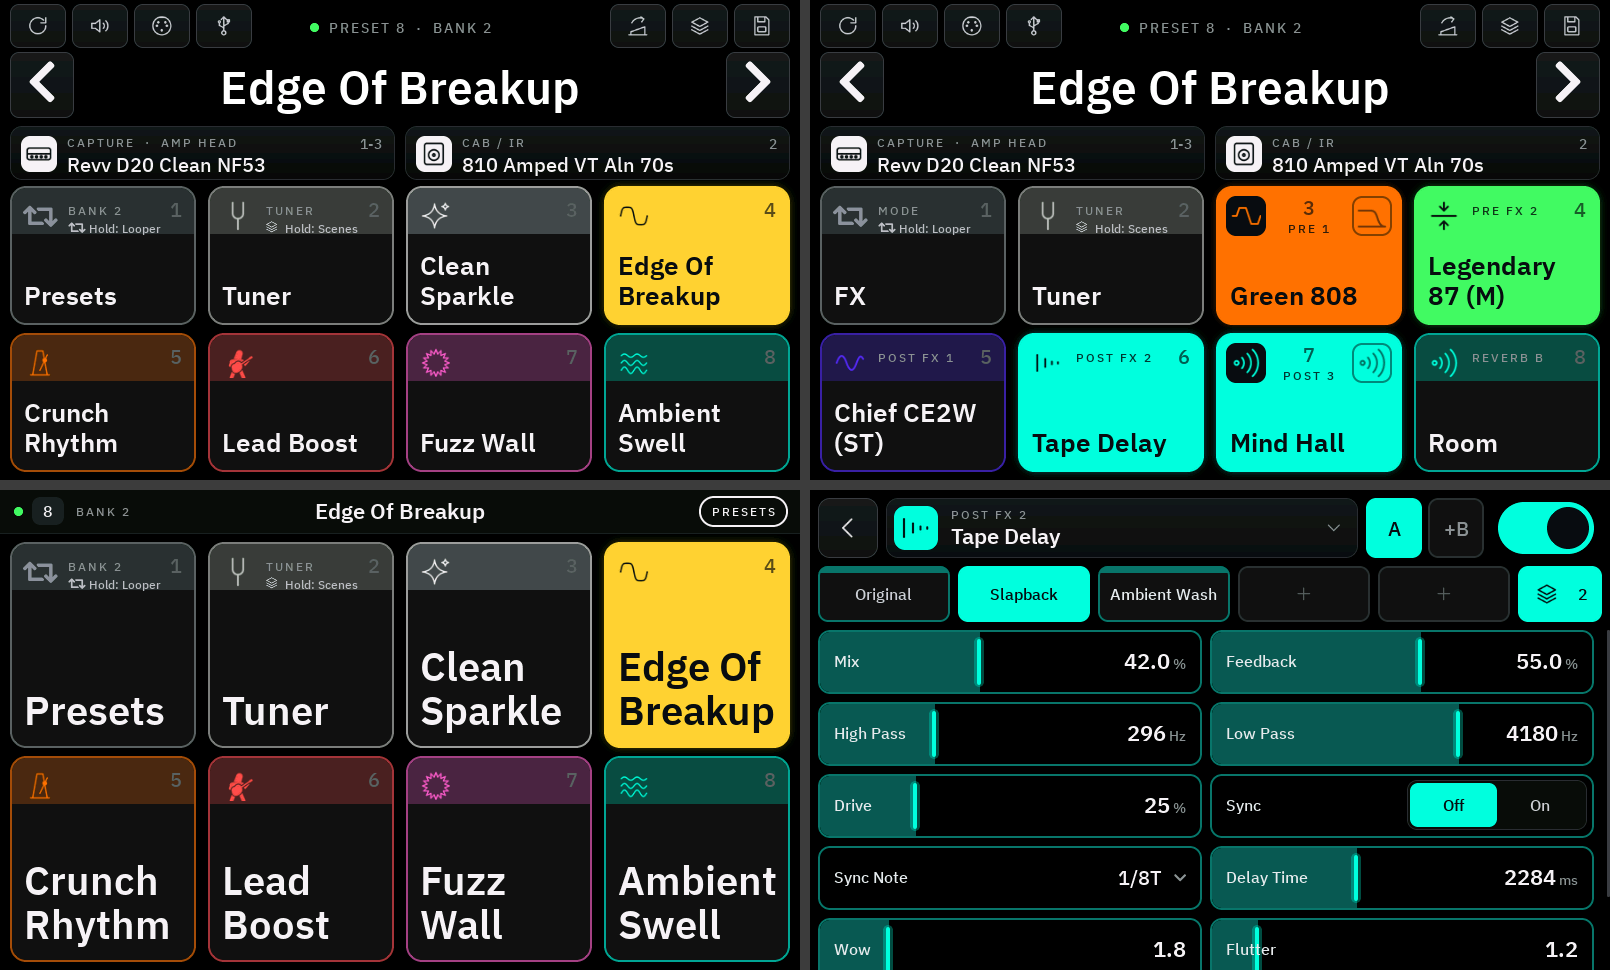
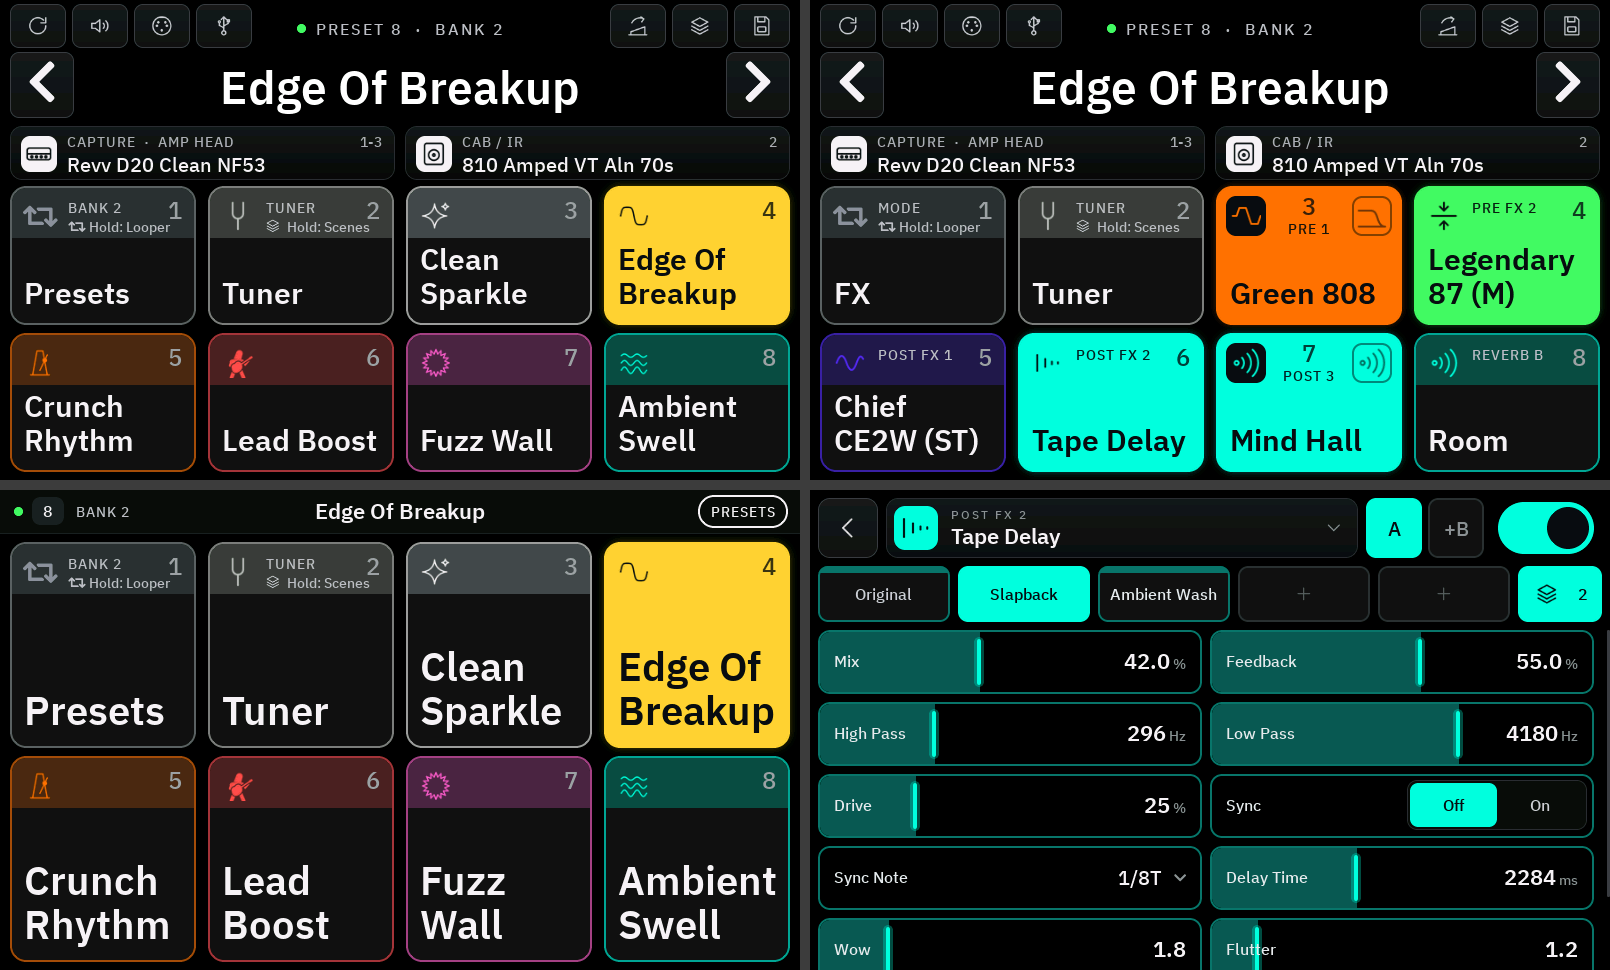
Readable small text, larger tile names, clearer reverb A / B
- Tile captions, notes and the status line 14-16 px in light grey instead of
  12 px muted; footswitch numbers 24 px; tile names up to 30 px in the normal
  view and 46 px in the gig view.
- Reverb dialog: the second tab is 'Reverb A / B' with 'Same reverb, second
  setting' - two complete settings of one reverb on the switch.

diff --git a/main/ui.c b/main/ui.c
@@ -535,7 +535,7 @@ static void place_tile(int i)
     lv_obj_set_size(s_tile[i], s_tile_w, h);
     lv_obj_set_pos(s_tile[i], 10 + (p % columns) * (s_tile_w + TILE_GAP), (s_fullscreen ? FULL_TILE_Y : TILE_Y) + (p / columns) * (h + 8));
     if (!s_tile_name[i]) return;   // (still being built)
-    lv_obj_set_width(s_tile_other[i], s_tile_w - 66);
+    lv_obj_set_width(s_tile_other[i], s_tile_w - 62);
     lv_obj_set_width(s_tile_name[i], s_tile_w - 24);
     lv_label_set_text_fmt(s_tile_number[i], "%d", p + 1);   // the footswitch that presses it
 }
@@ -561,8 +561,9 @@ static bool words_fit(const char *text, const lv_font_t *font, int width)
 // so the tiles read evenly - larger in the gig view.
 static void fit_names(void)
 {
-    static const lv_font_t *const gig[] = { &ui_font_title_40, &ui_font_title_34, &ui_font_title_30, &ui_font_title_26 };
-    static const lv_font_t *const normal[] = { &ui_font_title_26, &ui_font_24, &ui_font_20, &ui_font_16 };
+    static const lv_font_t *const gig[] = { &ui_font_title_46, &ui_font_title_40, &ui_font_title_34, &ui_font_title_30, &ui_font_title_26 };
+    static const lv_font_t *const normal[] = { &ui_font_title_30, &ui_font_title_26, &ui_font_24, &ui_font_20, &ui_font_16 };
+    enum { SIZES = 5 };
     // Measuring takes a while and the names rarely change: only when a name or the view (gig / normal) changed.
     static char measured[TILES][65];
     static int measured_view = -1, measured_w;
@@ -573,9 +574,9 @@ static void fit_names(void)
     measured_w = s_tile_w;
     for (int i = 0; i < TILES; i++) strlcpy(measured[i], lv_label_get_text(s_tile_name[i]), sizeof(measured[i]));
     const lv_font_t *const *fonts = s_fullscreen ? gig : normal;
-    int room = tile_height() - (s_fullscreen ? 66 : 56);
-    const lv_font_t *font = fonts[3];
-    for (int f = 0; f < 4; f++) {
+    int room = tile_height() - (s_fullscreen ? 66 : 58);
+    const lv_font_t *font = fonts[SIZES - 1];
+    for (int f = 0; f < SIZES; f++) {
         int line_space = -lv_font_get_line_height(fonts[f]) / 6;
         bool fits = true;
         for (int i = 0; i < TILES && fits; i++) {
@@ -643,7 +644,7 @@ static void on_tile_draw(lv_event_t *e)
     lv_area_t a;
     lv_obj_get_coords(lv_event_get_current_target_obj(e), &a);
     lv_area_t in = { a.x1 + 2, a.y1 + 2, a.x2 - 2, a.y2 - 2 };   // inside the border
-    if (s_tile_head[i]) draw_top(lv_event_get_layer(e), &in, 14, 46, blend(s_tile_head[i], TILE_OFF_BG, 0.24f));
+    if (s_tile_head[i]) draw_top(lv_event_get_layer(e), &in, 14, 50, blend(s_tile_head[i], TILE_OFF_BG, 0.24f));
     if (s_tile_marks[i]) draw_scene_marks(lv_event_get_layer(e), &a, i);
 }
 
@@ -679,28 +680,29 @@ static void build_tile(lv_obj_t *parent, int i)
     lv_obj_set_style_bg_opa(s_tile_square_b[i], LV_OPA_TRANSP, 0);
     lv_obj_set_hidden(s_tile_square_b[i], true);
 
-    s_tile_caption[i] = label(tile, &ui_font_12, TEXT);
-    lv_obj_set_style_text_letter_space(s_tile_caption[i], 2, 0);
+    // (14 px and light grey: the 12 px captions and notes could not be read from standing height)
+    s_tile_caption[i] = label(tile, &ui_font_14, TEXT);
+    lv_obj_set_style_text_letter_space(s_tile_caption[i], 1, 0);
     lv_obj_set_width(s_tile_caption[i], s_tile_w - 96);
     lv_label_set_long_mode(s_tile_caption[i], LV_LABEL_LONG_CLIP);
-    lv_obj_set_pos(s_tile_caption[i], 56, 14);
+    lv_obj_set_pos(s_tile_caption[i], 56, 10);
 
-    s_tile_other[i] = label(tile, &ui_font_12, TEXT);
-    lv_obj_set_size(s_tile_other[i], s_tile_w - 66, lv_font_get_line_height(&ui_font_12));   // one line
+    s_tile_other[i] = label(tile, &ui_font_14, TEXT);
+    lv_obj_set_size(s_tile_other[i], s_tile_w - 66, lv_font_get_line_height(&ui_font_14));   // one line
     lv_label_set_long_mode(s_tile_other[i], LV_LABEL_LONG_DOT);
-    lv_obj_set_pos(s_tile_other[i], 56, 32);
+    lv_obj_set_pos(s_tile_other[i], 56, 29);
     lv_obj_set_hidden(s_tile_other[i], true);
     s_tile_note_image[i] = lv_image_create(tile);   // a small symbol in front of that line
-    lv_image_set_scale(s_tile_note_image[i], 256 * 15 / 36);
-    lv_obj_set_size(s_tile_note_image[i], 15, 15);
+    lv_image_set_scale(s_tile_note_image[i], 256 * 17 / 36);
+    lv_obj_set_size(s_tile_note_image[i], 17, 17);
     lv_image_set_inner_align(s_tile_note_image[i], LV_IMAGE_ALIGN_CENTER);
     lv_obj_set_style_image_recolor_opa(s_tile_note_image[i], LV_OPA_COVER, 0);
-    lv_obj_set_pos(s_tile_note_image[i], 55, 32);
+    lv_obj_set_pos(s_tile_note_image[i], 55, 30);
     lv_obj_set_hidden(s_tile_note_image[i], true);
 
-    s_tile_number[i] = label(tile, &ui_font_20, TEXT);
+    s_tile_number[i] = label(tile, &ui_font_24, TEXT);
     lv_label_set_text_fmt(s_tile_number[i], "%d", i + 1);
-    lv_obj_align(s_tile_number[i], LV_ALIGN_TOP_RIGHT, -12, 8);
+    lv_obj_align(s_tile_number[i], LV_ALIGN_TOP_RIGHT, -12, 6);
 
     s_tile_name[i] = label(tile, &ui_font_title_26, TEXT);
     lv_obj_set_width(s_tile_name[i], s_tile_w - 24);
@@ -775,11 +777,11 @@ static void set_tile(int i, const char *caption, const char *name, uint32_t colo
     set_text(sym, symbol ? symbol : "");
     set_color_prop(sym, LV_STYLE_TEXT_COLOR, mark);
     set_num_prop(s_tile_caption[i], LV_STYLE_X, (icon || symbol) ? 56 : 14);
-    set_num_prop(s_tile_caption[i], LV_STYLE_Y, 14);
-    set_num_prop(s_tile_caption[i], LV_STYLE_WIDTH, (icon || symbol) ? s_tile_w - 96 : s_tile_w - 54);
+    set_num_prop(s_tile_caption[i], LV_STYLE_Y, 10);
+    set_num_prop(s_tile_caption[i], LV_STYLE_WIDTH, (icon || symbol) ? s_tile_w - 98 : s_tile_w - 56);
     // (set_tile_ab changes these for a slot with a second effect)
     set_num_prop(s_tile_caption[i], LV_STYLE_TEXT_ALIGN, LV_TEXT_ALIGN_LEFT);
-    set_align_if(s_tile_number[i], LV_ALIGN_TOP_RIGHT, -12, 8);
+    set_align_if(s_tile_number[i], LV_ALIGN_TOP_RIGHT, -12, 6);
     set_hidden(s_tile_square_b[i], true);
     set_num_prop(sq, LV_STYLE_BG_OPA, LV_OPA_TRANSP);
     set_num_prop(sq, LV_STYLE_BORDER_WIDTH, 0);
@@ -790,10 +792,10 @@ static void set_tile(int i, const char *caption, const char *name, uint32_t colo
     for (; caption[n] && n < sizeof(upper) - 1; n++) upper[n] = (char)((caption[n] >= 'a' && caption[n] <= 'z') ? caption[n] - 32 : caption[n]);
     upper[n] = 0;
     set_text(s_tile_caption[i], upper);
-    set_color_prop(s_tile_caption[i], LV_STYLE_TEXT_COLOR, active ? ink : MUTED);
-    set_num_prop(s_tile_caption[i], LV_STYLE_TEXT_OPA, active ? 210 : LV_OPA_COVER);
-    set_color_prop(s_tile_number[i], LV_STYLE_TEXT_COLOR, active ? ink : 0x5D6267);
-    set_num_prop(s_tile_number[i], LV_STYLE_TEXT_OPA, active ? 170 : LV_OPA_COVER);
+    set_color_prop(s_tile_caption[i], LV_STYLE_TEXT_COLOR, active ? ink : empty ? MUTED : 0xB9BDC2);
+    set_num_prop(s_tile_caption[i], LV_STYLE_TEXT_OPA, active ? 230 : LV_OPA_COVER);
+    set_color_prop(s_tile_number[i], LV_STYLE_TEXT_COLOR, active ? ink : empty ? 0x5D6267 : 0x9AA0A6);
+    set_num_prop(s_tile_number[i], LV_STYLE_TEXT_OPA, active ? 200 : LV_OPA_COVER);
 
     set_text(s_tile_name[i], name);
     set_color_prop(s_tile_name[i], LV_STYLE_TEXT_COLOR, ink);
@@ -831,10 +833,10 @@ static void set_tile_ab(int i, int slot, uint32_t a_type, uint32_t b_type, bool 
     style_ab_square(s_tile_square_b[i], nano_fx_model(b_type), "B", b_runs, mark, back);
     set_text(s_tile_caption[i], SHORT[slot]);
     set_num_prop(s_tile_caption[i], LV_STYLE_X, 52);
-    set_num_prop(s_tile_caption[i], LV_STYLE_Y, 32);
+    set_num_prop(s_tile_caption[i], LV_STYLE_Y, 31);
     set_num_prop(s_tile_caption[i], LV_STYLE_WIDTH, s_tile_w - 104 - 4);   // (- 4: the tile's border)
     set_num_prop(s_tile_caption[i], LV_STYLE_TEXT_ALIGN, LV_TEXT_ALIGN_CENTER);
-    set_align_if(s_tile_number[i], LV_ALIGN_TOP_MID, 0, 6);
+    set_align_if(s_tile_number[i], LV_ALIGN_TOP_MID, 0, 2);
 }
 
 // After the tiles are set: the pedal drawings (FX tiles), the A/B lines and the marks of the scenes.
@@ -868,7 +870,7 @@ static void show_tile_extras(void)
             uint32_t color = s_tile_ink[i] == TEXT ? 0xC8CCD1 : s_tile_ink[i];   // a little lighter than the caption: it is read
             set_color_prop(s_tile_other[i], LV_STYLE_TEXT_COLOR, color);
             set_num_prop(s_tile_other[i], LV_STYLE_TEXT_OPA, 230);
-            set_num_prop(s_tile_other[i], LV_STYLE_X, note_icon ? 75 : 56);
+            set_num_prop(s_tile_other[i], LV_STYLE_X, note_icon ? 77 : 56);
             if (note_icon) {
                 set_image(s_tile_note_image[i], note_icon);
                 set_color_prop(s_tile_note_image[i], LV_STYLE_IMAGE_RECOLOR, color);
@@ -2042,6 +2044,19 @@ static void on_rev_dropdown(lv_event_t *e)
     else lv_obj_add_state(s_rev_edit, LV_STATE_DISABLED);
 }
 
+// "Same reverb": B is the reverb that is in the slot - a second setting of it (set up with Edit B).
+static void on_rev_same(lv_event_t *e)
+{
+    uint32_t type = s_view.mix_slot >= 0 ? s_slot_type[s_view.mix_slot] : 0;
+    for (int i = 0; i < s_rev_type_count; i++) {
+        if (s_rev_types[i] != type) continue;
+        lv_dropdown_set_selected(s_rev_dropdown, (uint32_t)(i + 1));
+        on_rev_dropdown(NULL);
+        return;
+    }
+    ui_show_message("No reverb in this preset.");
+}
+
 // 0 cancel, 1 save, 2 edit reverb B, 3 save and take the reverb off the Nano's expression pedal.
 // The tab in front decides what footswitch 8 does from now on: saved on the mix tab it switches the mix (a second
 // reverb stays stored for later), saved on the 2nd reverb tab it swaps the two reverbs.
@@ -2092,7 +2107,7 @@ static void open_mix_editor(void)
     // The tab of what footswitch 8 does now is in front and carries a tick.
     int used = s_view.rev_b_type ? 1 : 0;
     lv_label_set_text(lv_obj_get_child(s_mix_tab[0], 0), used == 0 ? LV_SYMBOL_OK "  Mix Pos 1 / 2" : "Mix Pos 1 / 2");
-    lv_label_set_text(lv_obj_get_child(s_mix_tab[1], 0), used == 1 ? LV_SYMBOL_OK "  2nd reverb" : "2nd reverb");
+    lv_label_set_text(lv_obj_get_child(s_mix_tab[1], 0), used == 1 ? LV_SYMBOL_OK "  Reverb A / B" : "Reverb A / B");
     show_mix_tab(used);
     lv_obj_set_hidden(s_mix_editor, false);
     lv_obj_move_foreground(s_mix_editor);
@@ -2110,14 +2125,14 @@ static lv_obj_t *mix_panel(lv_obj_t *parent, int y, int h)
 
 static void build_mix_editor(lv_obj_t *screen)
 {
-    s_mix_editor = panel(screen, 120, 90, 560, 316);
-    dialog_title(s_mix_editor, "Reverb  \xC2\xB7  footswitch 8");
+    s_mix_editor = panel(screen, 120, 66, 560, 364);
+    dialog_title(s_mix_editor, "Reverb switch");
     s_mix_model_label = label(s_mix_editor, &ui_font_14, MUTED);
     lv_obj_align(s_mix_model_label, LV_ALIGN_TOP_RIGHT, -20, 20);
-    static const char *const tabs[2] = { "Mix Pos 1 / 2", "2nd reverb" };
+    static const char *const tabs[2] = { "Mix Pos 1 / 2", "Reverb A / B" };
     for (int i = 0; i < 2; i++) {
         s_mix_tab[i] = small_button(s_mix_editor, 20 + i * 210, 54, 200, 40, tabs[i], on_mix_tab, i);
-        s_mix_panel[i] = mix_panel(s_mix_editor, 106, 140);
+        s_mix_panel[i] = mix_panel(s_mix_editor, 106, 188);
     }
 
     // Tab 1: Pos 1 / Pos 2 of the expression assignment, played while moving
@@ -2151,8 +2166,8 @@ static void build_mix_editor(lv_obj_t *screen)
     lv_obj_t *info = label(rev, &ui_font_14, MUTED);
     lv_obj_set_width(info, 520);
     lv_label_set_long_mode(info, LV_LABEL_LONG_WRAP);
-    lv_label_set_text(info, "Save here: footswitch 8 switches between the preset's reverb (A) and a second one (B). "
-                            "B and its settings are stored on the controller; Edit B sets it up.");
+    lv_label_set_text(info, "Save here: the switch changes between two reverbs with all their settings, A (the preset's) "
+                            "and B. Edit B sets B up.");
     lv_obj_set_pos(info, 20, 0);
     static char options[512];
     size_t n = (size_t)snprintf(options, sizeof(options), "None (footswitch 8 = mix)");
@@ -2170,10 +2185,11 @@ static void build_mix_editor(lv_obj_t *screen)
     lv_obj_set_style_text_font(lv_dropdown_get_list(s_rev_dropdown), &ui_font_20, 0);
     lv_obj_add_event_cb(s_rev_dropdown, on_rev_dropdown, LV_EVENT_VALUE_CHANGED, NULL);
     s_rev_edit = small_button(rev, 360, 56, 180, 52, "Edit B", on_mix_button, 2);
+    small_button(rev, 20, 120, 320, 46, "Same reverb, second setting", on_rev_same, 0);
 
-    s_mix_free = small_button(s_mix_editor, 20, 254, 150, 46, "Free pedal", on_mix_button, 3);
-    small_button(s_mix_editor, 200, 254, 160, 46, "Cancel", on_mix_button, 0);
-    primary(small_button(s_mix_editor, 380, 254, 160, 46, "Save", on_mix_button, 1));
+    s_mix_free = small_button(s_mix_editor, 20, 302, 150, 46, "Free pedal", on_mix_button, 3);
+    small_button(s_mix_editor, 200, 302, 160, 46, "Cancel", on_mix_button, 0);
+    primary(small_button(s_mix_editor, 380, 302, 160, 46, "Save", on_mix_button, 1));
     lv_obj_set_hidden(s_mix_editor, true);
 }
 
@@ -2692,13 +2708,13 @@ static lv_obj_t *source_card(lv_obj_t *screen, int x, const char *title, int ico
     *square = icon_square(c, 36);
     lv_obj_set_pos(*square, 10, 9);
     set_icon_square(*square, TEXT, NANO_ICONS[icon], true);
-    lv_obj_t *t = label(c, &ui_font_12, MUTED);
-    lv_obj_set_style_text_letter_space(t, 2, 0);
+    lv_obj_t *t = label(c, &ui_font_14, 0xA8ADB3);
+    lv_obj_set_style_text_letter_space(t, 1, 0);
     lv_label_set_text(t, title);
-    lv_obj_set_pos(t, 56, 7);
+    lv_obj_set_pos(t, 56, 5);
     if (title_label) *title_label = t;
-    *slot = label(c, &ui_font_14, MUTED);
-    lv_obj_align(*slot, LV_ALIGN_TOP_RIGHT, -12, 7);
+    *slot = label(c, &ui_font_14, 0xA8ADB3);
+    lv_obj_align(*slot, LV_ALIGN_TOP_RIGHT, -12, 5);
     *name = label(c, &ui_font_20, TEXT);
     lv_obj_set_width(*name, 310);
     lv_label_set_long_mode(*name, LV_LABEL_LONG_DOT);
@@ -3006,9 +3022,9 @@ void ui_init(ui_command_cb on_command, ui_param_cb on_param, ui_text_cb on_text)
     lv_obj_set_size(s_status_dot, 9, 9);
     lv_obj_set_style_radius(s_status_dot, LV_RADIUS_CIRCLE, 0);
     lv_obj_set_style_border_width(s_status_dot, 0, 0);
-    s_status = label(status_row, &ui_font_14, MUTED);
+    s_status = label(status_row, &ui_font_16, 0xB9BDC2);
     lv_obj_set_style_text_letter_space(s_status, 2, 0);
-    s_preset_number = label(status_row, &ui_font_14, MUTED);
+    s_preset_number = label(status_row, &ui_font_16, 0xB9BDC2);
     lv_obj_set_style_text_letter_space(s_preset_number, 2, 0);
     s_app = label(status_row, &ui_font_14, 0x3D8BFF);    // editor connected through the controller
     lv_obj_set_style_text_letter_space(s_app, 2, 0);
@@ -3075,8 +3091,8 @@ void ui_init(ui_command_cb on_command, ui_param_cb on_param, ui_text_cb on_text)
     lv_obj_align(badge, LV_ALIGN_LEFT_MID, 32, 0);
     s_gig_number = label(badge, &ui_font_16, TEXT);
     lv_obj_center(s_gig_number);
-    s_gig_bank = label(s_gig_bar, &ui_font_12, MUTED);
-    lv_obj_set_style_text_letter_space(s_gig_bank, 2, 0);
+    s_gig_bank = label(s_gig_bar, &ui_font_14, 0xB9BDC2);
+    lv_obj_set_style_text_letter_space(s_gig_bank, 1, 0);
     lv_obj_align_to(s_gig_bank, badge, LV_ALIGN_OUT_RIGHT_MID, 12, 0);
     s_gig_name = label(s_gig_bar, &ui_font_title_22, TEXT);
     lv_obj_set_width(s_gig_name, 440);
@@ -3089,8 +3105,8 @@ void ui_init(ui_command_cb on_command, ui_param_cb on_param, ui_text_cb on_text)
     lv_obj_set_style_border_width(s_gig_dirty, 0, 0);
     lv_obj_set_style_bg_color(s_gig_dirty, lv_color_hex(ORANGE), 0);
     lv_obj_set_hidden(s_gig_dirty, true);
-    s_gig_mode = label(s_gig_bar, &ui_font_12, TEXT);
-    lv_obj_set_style_text_letter_space(s_gig_mode, 2, 0);
+    s_gig_mode = label(s_gig_bar, &ui_font_14, TEXT);
+    lv_obj_set_style_text_letter_space(s_gig_mode, 1, 0);
     lv_obj_set_style_pad_hor(s_gig_mode, 11, 0);
     lv_obj_set_style_pad_ver(s_gig_mode, 5, 0);
     lv_obj_set_style_radius(s_gig_mode, LV_RADIUS_CIRCLE, 0);
@@ -3262,7 +3278,7 @@ static void show_fx_tiles(const nano_state_t *st, const ui_view_t *view)
     } else if (!view->mix_known) {
         set_tile(7, "REV MIX", "No Pos 1/2", 0x00FFDD, false, true, icon, NULL);
     } else {
-        snprintf(caption, sizeof(caption), "MIX %d/%d%%", (int)lroundf(view->mix_pos[0] * 100), (int)lroundf(view->mix_pos[1] * 100));
+        snprintf(caption, sizeof(caption), "MIX %d/%d", (int)lroundf(view->mix_pos[0] * 100), (int)lroundf(view->mix_pos[1] * 100));
         set_tile(7, caption, view->mix_active == 1 ? "Pos 2" : view->mix_active == 0 ? "Pos 1" : "Rev Mix",
                  0x00FFDD, view->mix_active == 1, false, icon, NULL);
     }

diff --git a/tools/screenshots/shots.c b/tools/screenshots/shots.c
@@ -111,7 +111,7 @@ static void example_state(void)
     view.mix_pos[0] = 0.10f;
     view.mix_pos[1] = 0.40f;
     view.mix_active = -1;
-    view.rev_b_type = type_of("Room");
+    view.rev_b_type = view.rev_b_stored = type_of("Room");
     view.rev_active = 0;
     view.ab_b_type[0] = type_of("Envelope Filter");   // Pre FX 1: the Green 808 (A) and an envelope filter (B)
     view.ab_b_type[4] = type_of("Room");              // the reverb: Mind Hall (A) and Room (B), also on footswitch 8

diff --git a/docs/manual.md b/docs/manual.md
@@ -55,7 +55,7 @@ say so under their caption: *Hold: Looper* and *Hold: Scenes* (or *Presets*).
 | Preset tile (3–8, preset mode) | **Bank editor**: colour, symbol and preset of this switch; `DEFAULT` restores the standard preset; `LEARN SWITCH` |
 | Scene tile (3–8, scenes) | **Scene**: name, colour and which effects are on; `Remove` empties the switch |
 | FX tile (3–7, FX mode) | **FX editor**: model (tap the header), on/off, all parameters and the [second effect](#second-effect-a-and-b-on-an-fx-slot) (A \| B) |
-| Tile 8 (FX mode) | **Reverb dialog** with the tabs *MIX POS 1 / 2* and *2ND REVERB* |
+| Tile 8 (FX mode) | **Reverb dialog** with the tabs *MIX POS 1 / 2* and *REVERB A / B* |
 | Preset name | **Rename** with on-screen keyboard (at least 4 characters, unique) |
 
 ## Own banks
@@ -241,7 +241,9 @@ switch does** from then on; the one in use carries a tick.
   preset. The setting itself is still in the Nano's preset, so an expression pedal would still move the reverb:
   **FREE PEDAL** in this dialog removes it from the preset (the other expression settings stay as they are, the
   switch keeps its positions). The button only shows while the reverb is on the pedal.
-- **2ND REVERB**: choose a second reverb (B) for this preset. Footswitch 8 then switches between the preset's
+- **REVERB A / B**: choose a second reverb (B) for this preset – another reverb, or with **Same reverb, second
+  setting** the same one again: then the switch changes between two complete settings of it (mix, decay, damping …)
+  without a gap in the sound. Footswitch 8 then switches between the preset's
   reverb (A) and B; the Nano has one reverb slot, so the controller swaps the model and sends the stored values
   (takes about half a second). Tile 8 shows reverb B and lights up while it runs; tile 7 shows the reverb in the slot. **EDIT B** loads B and opens the FX editor to set it up. Reverb B is stored on the
   controller, per preset. If you save the preset while B is active, B becomes the preset's reverb.

diff --git a/docs/manual.de.md b/docs/manual.de.md
@@ -56,7 +56,7 @@ Die Nummern hier sind die Funktionen der Schalter; wo sie liegen, bestimmt die [
 | Preset-Kachel (3–8, Preset-Modus) | **Bank-Fenster**: Farbe, Symbol und Preset dieses Schalters; `DEFAULT` stellt das Standard-Preset her; `LEARN SWITCH` |
 | Szenen-Kachel (3–8, Szenen) | **Szene**: Name, Farbe und welche Effekte an sind; `Remove` leert den Schalter |
 | FX-Kachel (3–7, FX-Modus) | **FX-Editor**: Modell (auf den Kopf tippen), an/aus, alle Parameter und der [zweite Effekt](#zweiter-effekt-a-und-b-auf-einem-fx-slot) (A \| B) |
-| Kachel 8 (FX-Modus) | **Reverb-Fenster** mit den Reitern *MIX POS 1 / 2* und *2ND REVERB* |
+| Kachel 8 (FX-Modus) | **Reverb-Fenster** mit den Reitern *MIX POS 1 / 2* und *REVERB A / B* |
 | Preset-Name | **Umbenennen** mit Bildschirmtastatur (mindestens 4 Zeichen, eindeutig) |
 
 ## Eigene Bänke
@@ -253,7 +253,9 @@ vorne ist, bestimmt, was der Schalter ab dann tut**; der gerade verwendete träg
   Expression-Pedal würde das Reverb also noch bewegen: **FREE PEDAL** in diesem Fenster nimmt sie aus dem Preset
   (die anderen Expression-Einstellungen bleiben, wie sie sind, der Schalter behält seine Positionen). Den Knopf gibt
   es nur, solange das Reverb auf dem Pedal liegt.
-- **2ND REVERB**: ein zweites Reverb (B) für dieses Preset wählen. Fußschalter 8 wechselt dann zwischen dem
+- **REVERB A / B**: ein zweites Reverb (B) für dieses Preset wählen – ein anderes Reverb oder mit **Same reverb,
+  second setting** dasselbe noch einmal: Dann wechselt der Schalter zwischen zwei kompletten Einstellungen davon
+  (Mix, Decay, Damping …), ohne Aussetzer. Fußschalter 8 wechselt dann zwischen dem
   Reverb des Presets (A) und B. Der Nano hat nur einen Reverb-Platz, deshalb tauscht der Controller das Modell aus
   und schickt die gespeicherten Werte (dauert etwa eine halbe Sekunde). Kachel 8 zeigt Reverb B und leuchtet,
   solange es läuft; Kachel 7 zeigt das Reverb, das gerade im Slot ist. **EDIT B** lädt B und öffnet den FX-Editor
